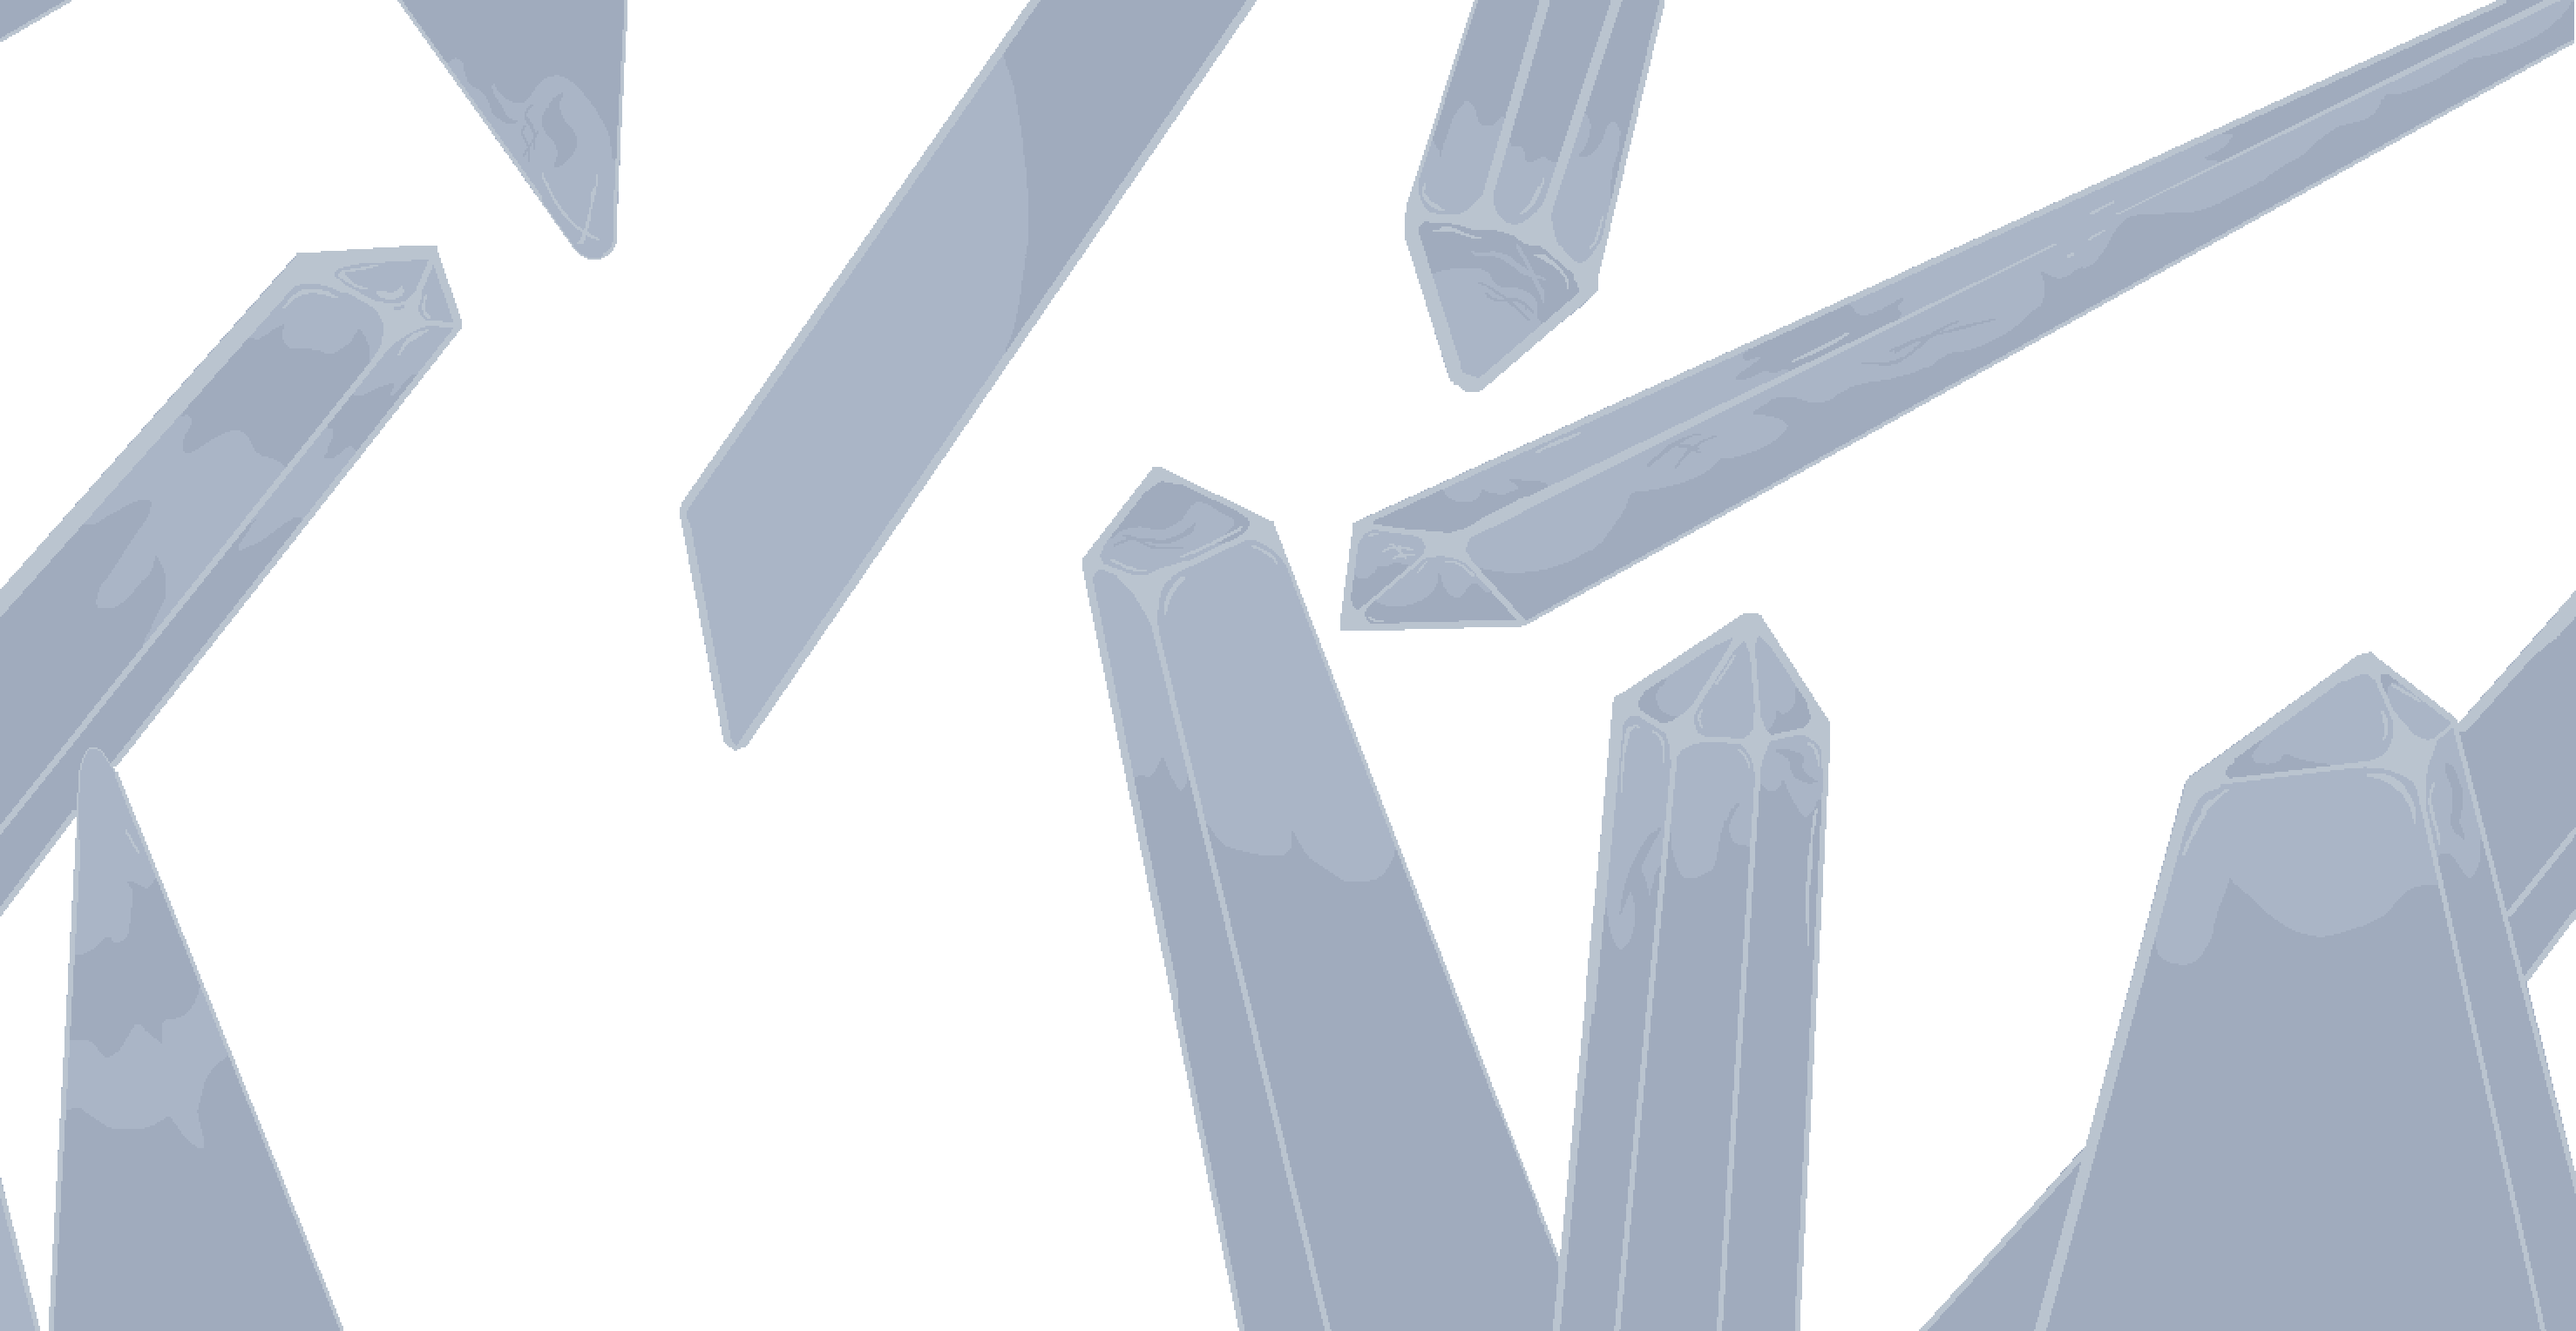
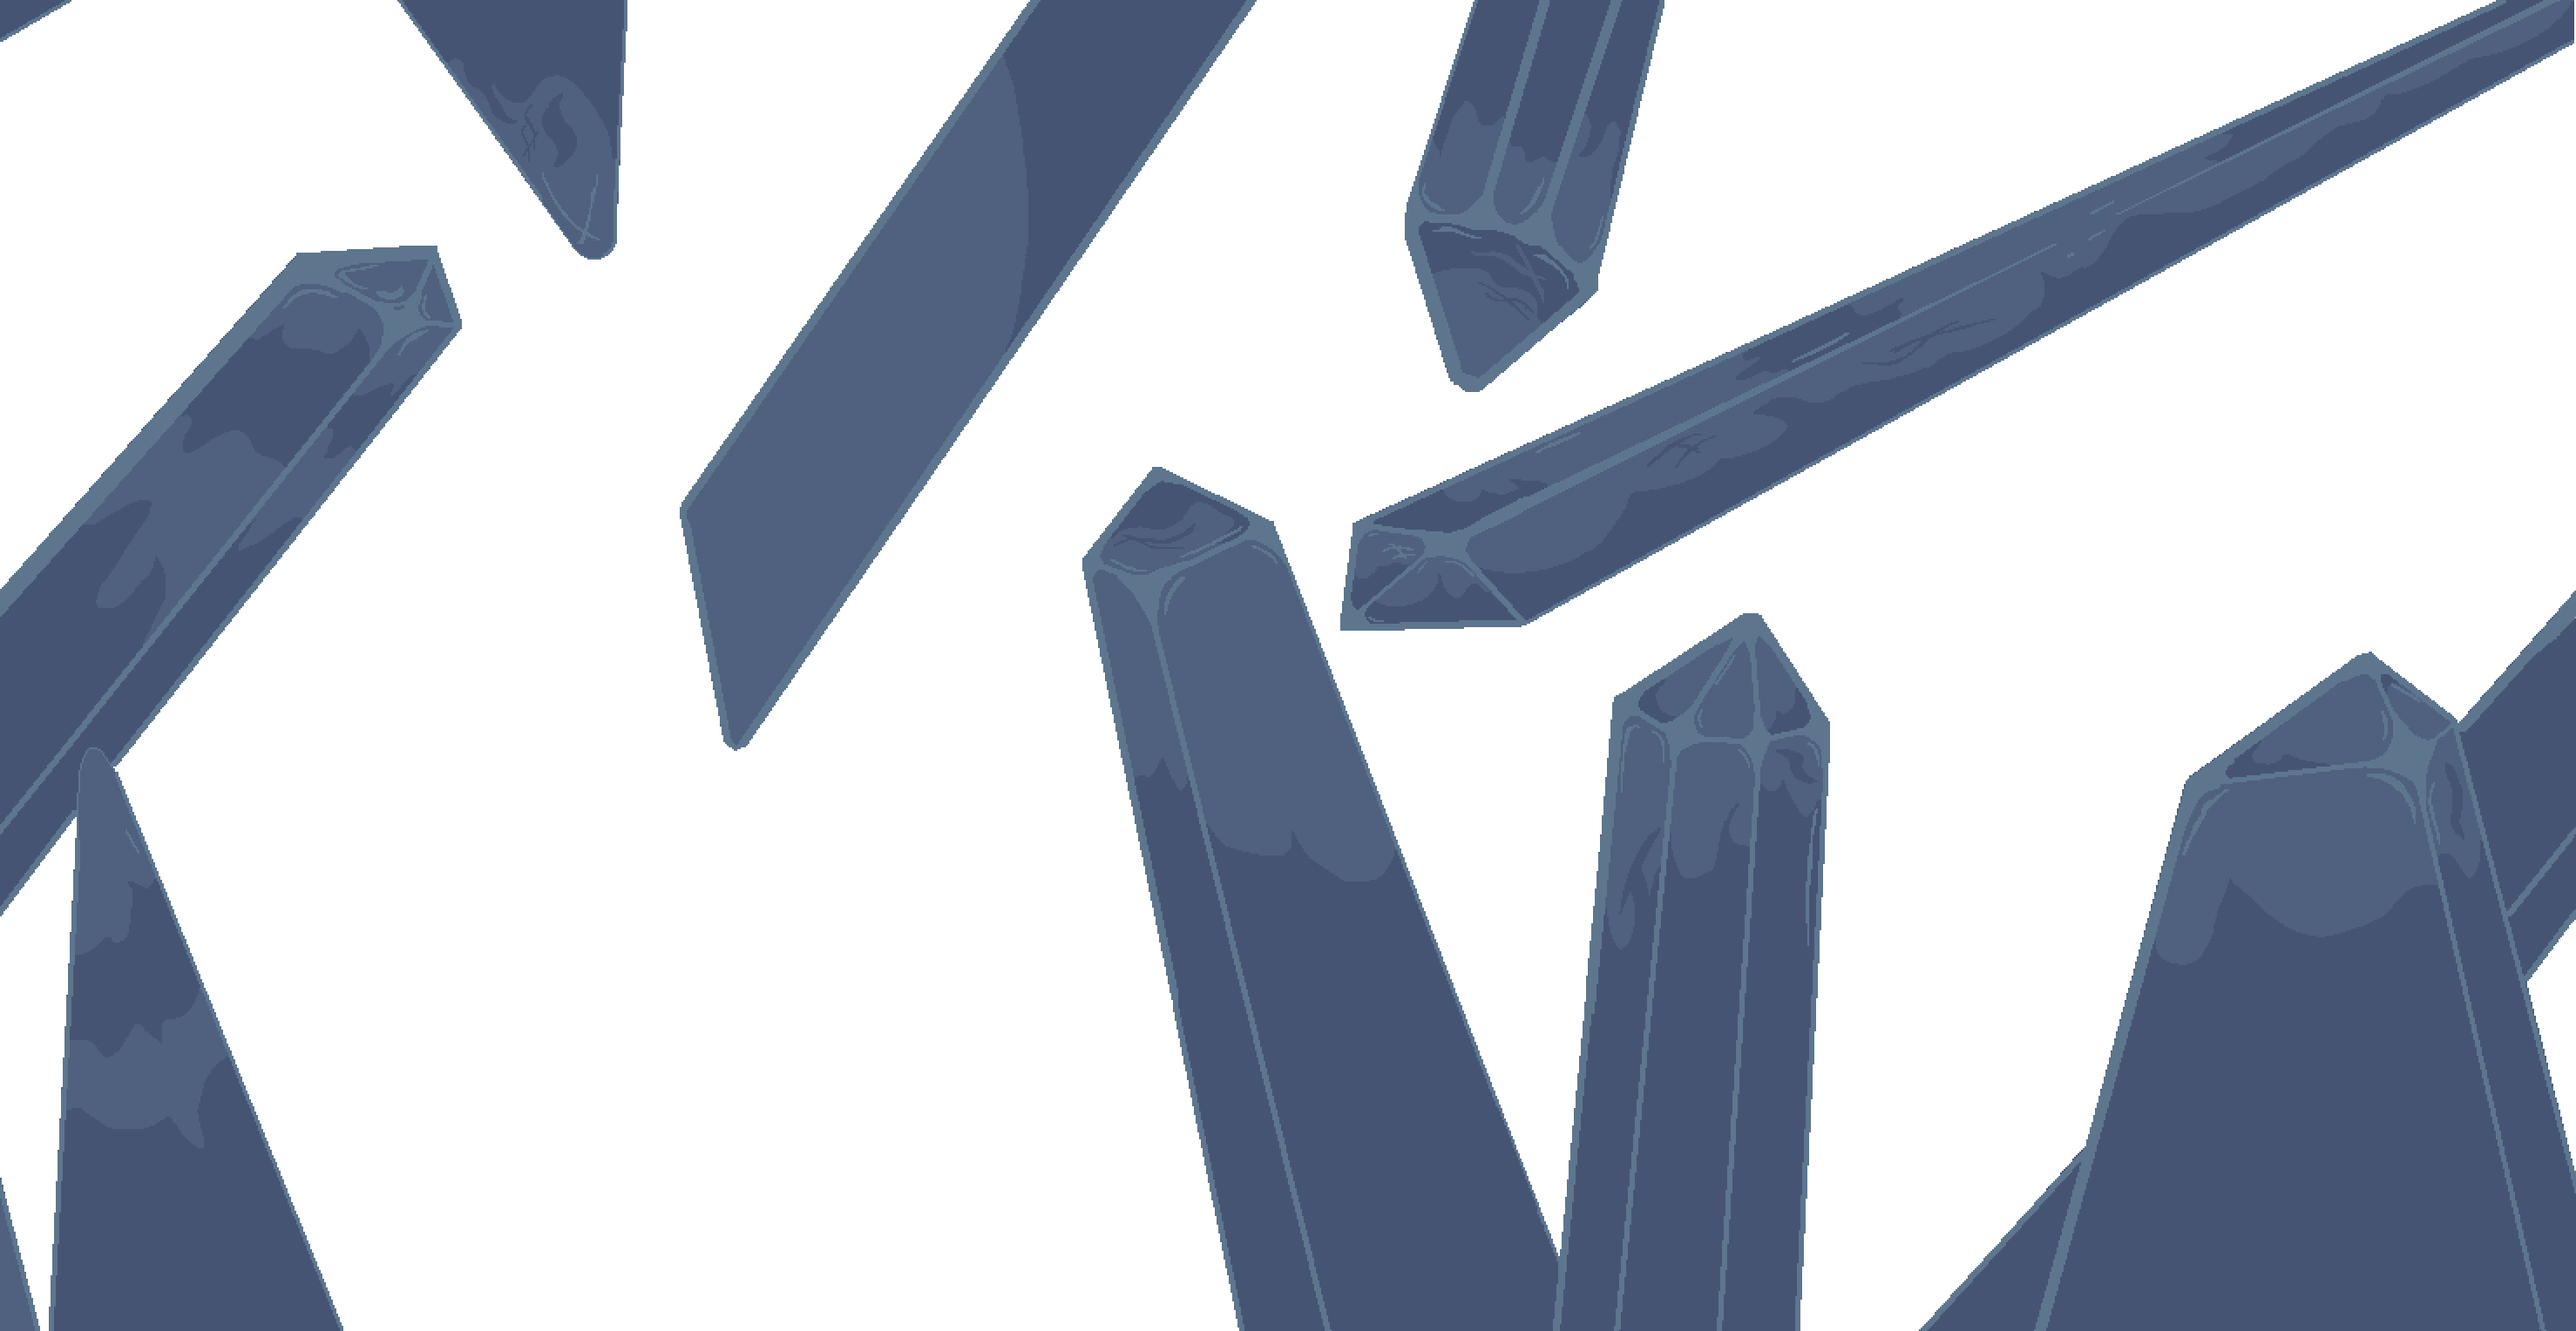
Background Changes

diff --git a/StarlightRiver.cs b/StarlightRiver.cs
@@ -872,17 +872,20 @@ namespace StarlightRiver
             if (player != null && LegendWorld.VitricBiome.Contains((player.Center / 16).ToPoint()))
             {
                 Vector2 basepoint = (LegendWorld.VitricBiome != null) ? LegendWorld.VitricBiome.TopLeft() * 16 + new Vector2(-2000, 0) : Vector2.Zero;
-                for (int k = 5; k >= 0; k--)
+
+                DrawLayer(basepoint, ModContent.GetTexture("StarlightRiver/Backgrounds/Glass5"), 0, 0); //the background
+
+                DrawLayer(basepoint, ModContent.GetTexture("StarlightRiver/Backgrounds/Glass1"), 5, -330, new Color(150, 175, 190)); //the back sand
+                DrawLayer(basepoint, ModContent.GetTexture("StarlightRiver/Backgrounds/Glass1"), 5.5f, 200, new Color(120, 150, 170), true); //the back sand on top
+
+
+                VitricBackgroundDust.ForEach(BootlegDust => BootlegDust.Draw(Main.spriteBatch)); //back particles
+                for (int k = 4; k >= 0; k--)
                 {
-                    DrawLayer(basepoint, ModContent.GetTexture("StarlightRiver/Backgrounds/Glass" + k), k + 1);
-                    if (k == 5)
-                    {
-                        VitricBackgroundDust.ForEach(BootlegDust => BootlegDust.Draw(Main.spriteBatch));
-                    }
-                    if (k == 2)
-                    {
-                        VitricForegroundDust.ForEach(BootlegDust => BootlegDust.Draw(Main.spriteBatch));
-                    }
+                    DrawLayer(basepoint, ModContent.GetTexture("StarlightRiver/Backgrounds/Glass" + k), k + 1, -80); //the crystal layers and front sand
+                    if (k == 4) DrawLayer(basepoint, ModContent.GetTexture("StarlightRiver/Backgrounds/Glass1"), 4.5f, 0, new Color(180, 220, 235), true); //the sand on top
+                    if (k == 2) VitricForegroundDust.ForEach(BootlegDust => BootlegDust.Draw(Main.spriteBatch)); //front particles
+                    
                 }
 
                 for (int k = (int)(player.position.X - basepoint.X) - (int)(Main.screenWidth * 1.5f); k <= (int)(player.position.X - basepoint.X) + (int)(Main.screenWidth * 1.5f); k += 30)
@@ -913,18 +916,26 @@ namespace StarlightRiver
                 }
             }
         }
-        public void DrawLayer(Vector2 basepoint, Texture2D texture, int parallax)
+        public void DrawLayer(Vector2 basepoint, Texture2D texture, float parallax, int offY = 0, Color color = default, bool flip = false)
         {
+            if (color == default) color = Color.White;
             for (int k = 0; k <= 5; k++)
             {
                 Main.spriteBatch.Draw(texture,
-                    new Vector2(basepoint.X + (k * 739 * 4) + GetParallaxOffset(basepoint.X, parallax * 0.1f) - (int)Main.screenPosition.X, basepoint.Y - (int)Main.screenPosition.Y),
-                    new Rectangle(0, 0, 2956, 1528), Color.White, 0f, Vector2.Zero, 1f, SpriteEffects.None, 0);
+                    new Vector2(basepoint.X + (k * 739 * 4) + GetParallaxOffset(basepoint.X, parallax * 0.1f) - (int)Main.screenPosition.X, 
+                    basepoint.Y + offY - (int)Main.screenPosition.Y + GetParallaxOffsetY(basepoint.Y + LegendWorld.VitricBiome.Height * 8, parallax * 0.04f)),
+                    new Rectangle(0, 0, 2956, 1528), color, 0f, Vector2.Zero, 1f, flip ? SpriteEffects.FlipVertically : 0, 0);
             }
         }
         public int GetParallaxOffset(float startpoint, float factor)
         {
-            return (int)((Main.screenPosition.X + Main.screenWidth / 2 - startpoint) * factor);
+            float vanillaParallax = 1 - (Main.caveParallax - 0.8f) / 0.2f;
+            return (int)((Main.screenPosition.X + Main.screenWidth / 2 - startpoint) * factor * vanillaParallax);
+        }
+        public int GetParallaxOffsetY(float startpoint, float factor)
+        {
+            float vanillaParallax = 1 - (Main.caveParallax - 0.8f) / 0.2f;
+            return (int)((Main.screenPosition.Y + Main.screenHeight / 2 - startpoint) * factor * vanillaParallax);
         }
         private void DrawSpecialCharacter(On.Terraria.GameContent.UI.Elements.UICharacterListItem.orig_DrawSelf orig, UICharacterListItem self, SpriteBatch spriteBatch)
         {

diff --git a/GUI/Overlay.cs b/GUI/Overlay.cs
@@ -206,8 +206,9 @@ namespace StarlightRiver.GUI
         {
             col *= 0.9999999994f;
             //pos += vel;
+            float vanillaParallax = 1 - (Main.caveParallax - 0.8f) / 0.2f;
             float veloff = (Parallax > 0.2) ? 0.2f : 0.1f;
-            float off = Basepos.X + Offset + (StarlightRiver.Instance.GetParallaxOffset(Basepos.X, 0.5f) - Parallax * (Main.screenPosition.X + Main.screenWidth / 2 - Basepos.X));
+            float off = Basepos.X + Offset + (StarlightRiver.Instance.GetParallaxOffset(Basepos.X, 0.5f) - Parallax * vanillaParallax * (Main.screenPosition.X + Main.screenWidth / 2 - Basepos.X));
             pos.X = (off) - Main.screenPosition.X;
             pos.Y = ((Basepos.Y + 256) - (1500 * veloff * Velocity - time * veloff * Velocity) - Main.screenPosition.Y);
             scl *= (Parallax > 0.2) ? 0.997f : 0.999f;
